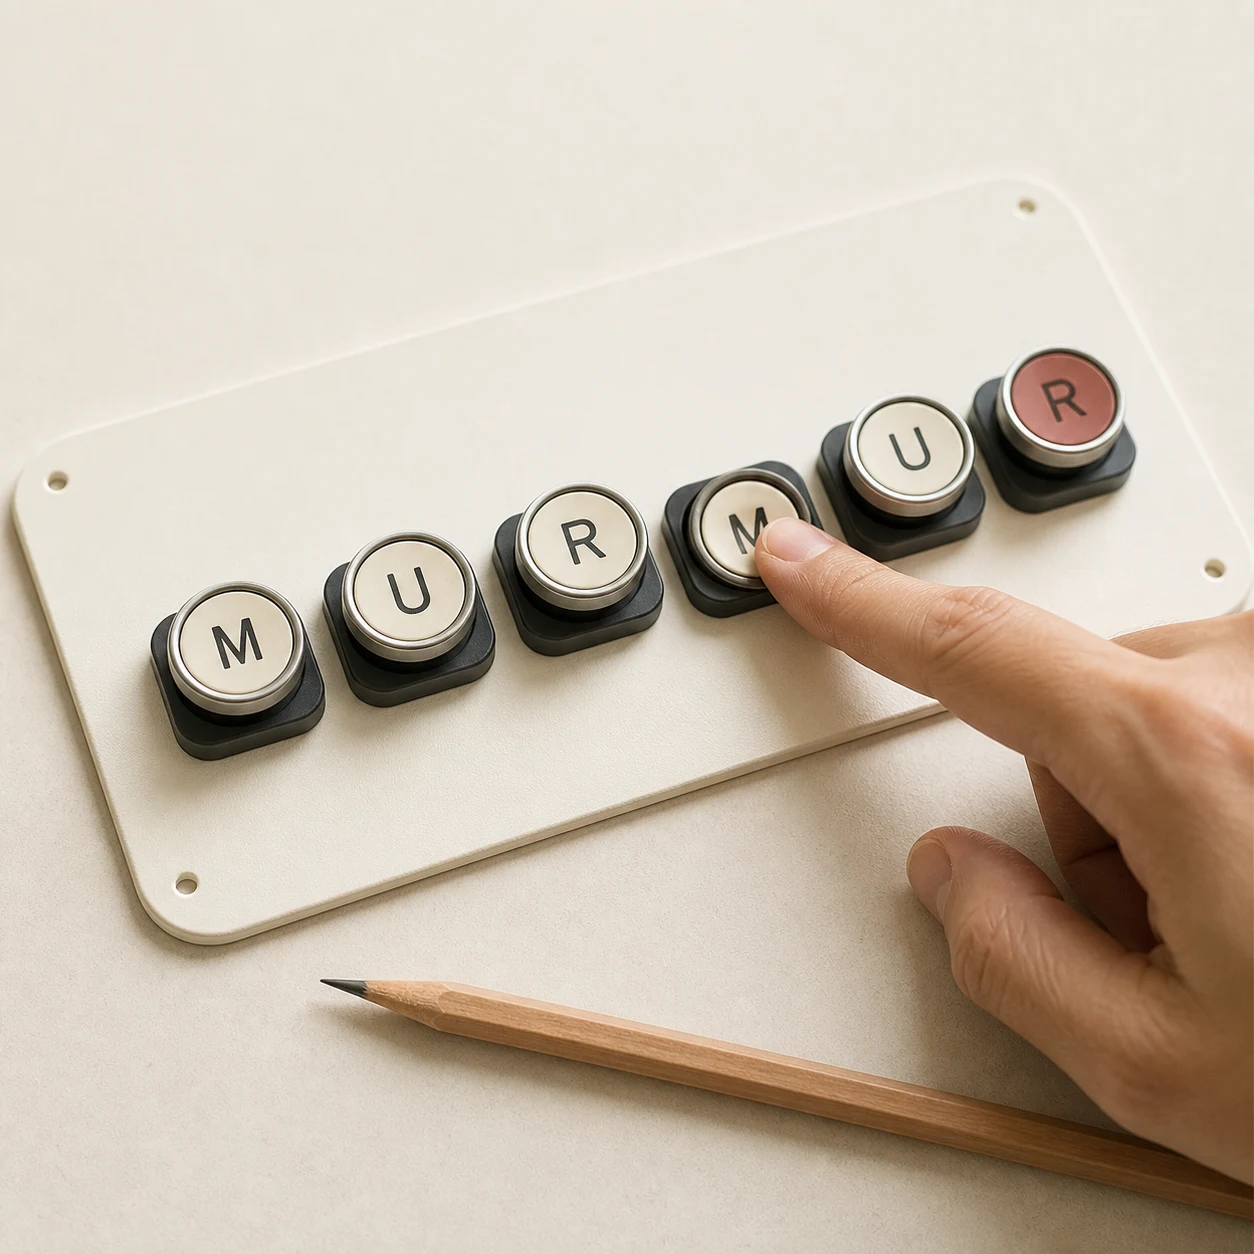
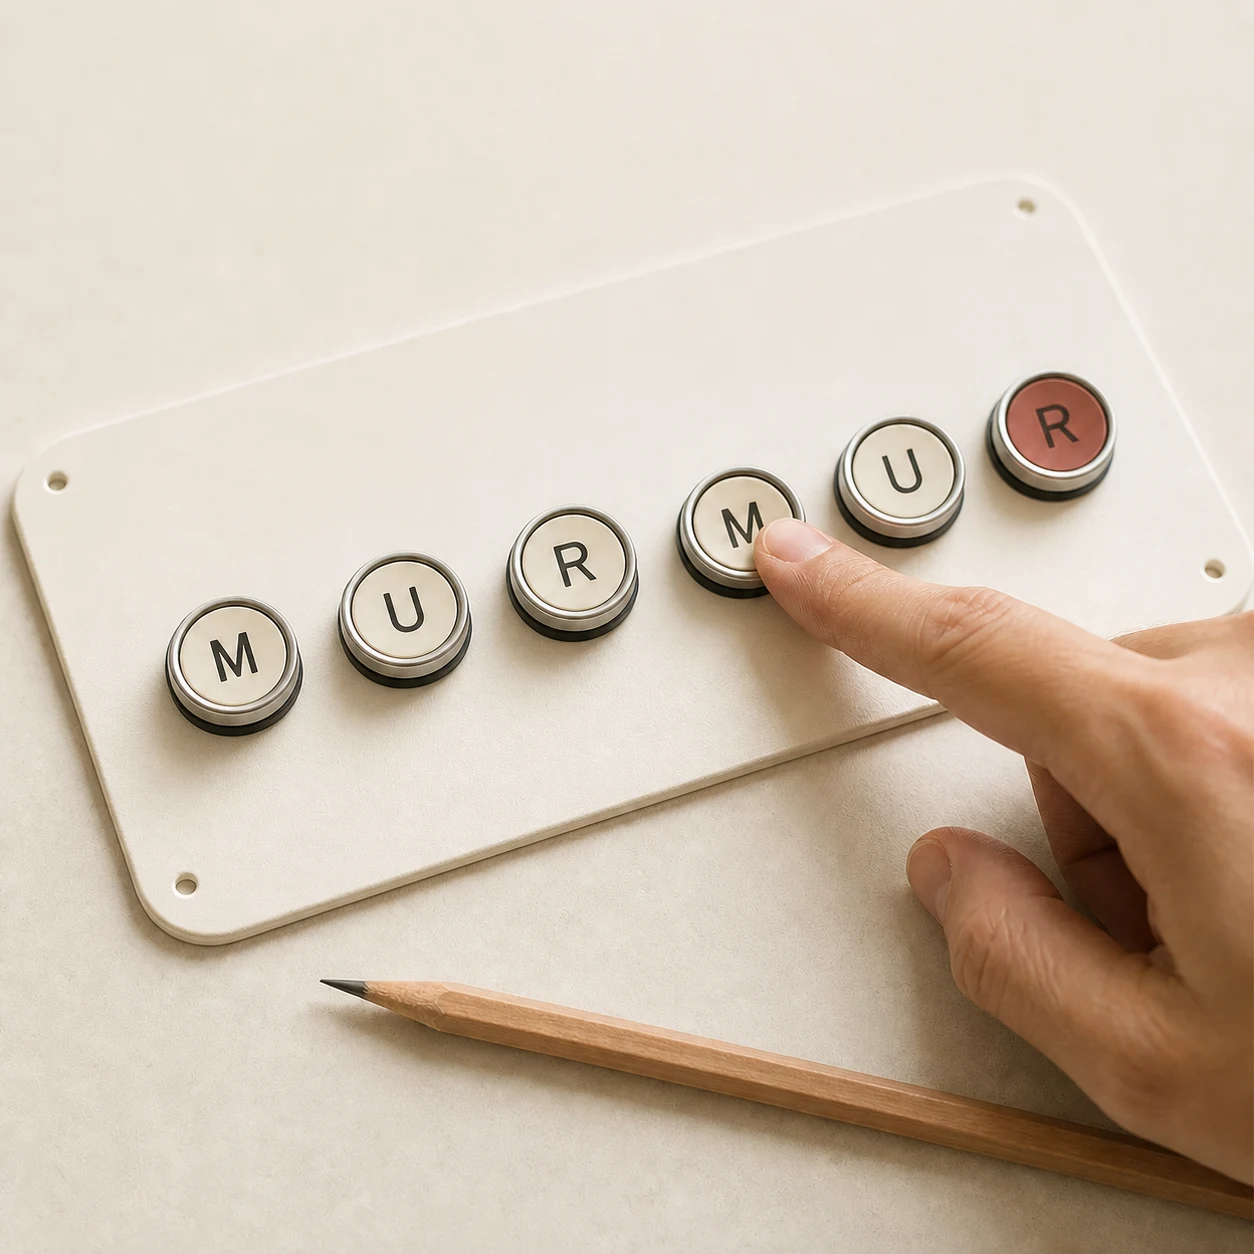
Resize PM-017 typewriter key magnets

Changed region(s): [[0.0933, 0.2799, 0.9019, 0.6531]]

diff --git a/src/koreanCopy.js b/src/koreanCopy.js
@@ -227,11 +227,11 @@ export const objectCopyKo = {
     category: '자석 문구',
     statement: ['단어를 붙이고,', '글자를 눌러보세요.'],
     story: [
-      '각 글자는 키보드에 연결되지 않은 독립형 자석입니다. 낮은 사각 베이스는 철제 표면에 그대로 붙어 있고, 둥근 키캡만 아래로 눌렸다가 작은 클릭감과 함께 제자리로 돌아옵니다.',
+      '각 글자는 키보드에 연결되지 않은 독립형 자석입니다. 원형 금속 링 아래로 거의 숨은 작은 베이스가 철제 표면에 붙고, 둥근 키캡만 아래로 눌렸다가 작은 클릭감과 함께 제자리로 돌아옵니다.',
       '일반 자석처럼 메모를 고정하거나 여러 글자를 나란히 배치해 짧은 단어를 만들 수 있습니다. 알파벳과 중복 글자, 숫자, 기호 세트가 같은 본체를 공유해 자유롭게 조합됩니다.',
     ],
     notes: [
-      ['독립형 키 유닛', '약 26 × 26 × 16mm 크기의 각 모듈 안에 키캡과 가이드, 클릭 부품, 자석 베이스, 후면 보호 패드가 모두 들어갑니다.'],
+      ['소형 키 유닛', '약 22 × 22 × 11mm 크기로 줄이고, 베이스가 원형 링보다 1~2mm만 보이도록 키캡과 가이드, 클릭 부품, 매립 자석, 후면 보호 링을 구성합니다.'],
       ['기계식 클릭', '가이드 플런저와 스테인리스 스냅 돔이 배터리나 전자음 없이 약 2mm의 눌림과 복귀감을 만듭니다.'],
       ['보드 보호 자석', '안쪽에 매립된 원형 자석이 고정력을 만들고 얇은 실리콘 링이 철제 표면의 긁힘과 자국을 줄입니다.'],
       ['다음 테스트', '작동 샘플로 누르는 힘, 키 흔들림, 스냅 돔 피로, 클릭 소리, 자력, 후면 패드 마모, 작은 부품 안전성을 확인해야 합니다.'],

diff --git a/src/catalog.js b/src/catalog.js
@@ -692,11 +692,11 @@ const typewriterKeyMagnets = {
   introKo: '철제 보드에 하나씩 붙여 단어를 만들고 메모를 고정하며, 누를 때마다 작은 기계식 클릭감을 주는 타자기 키 자석입니다.',
   statement: ['Arrange a word.', 'Press every letter.'],
   story: [
-    'Each letter is an independent magnet rather than part of a keyboard. The low square base stays fixed to a steel surface while the round keycap travels downward and returns with a compact tactile snap.',
+    'Each letter is an independent magnet rather than part of a keyboard. A compact backing, almost hidden beneath the circular metal ring, stays fixed to a steel surface while the round keycap travels downward and returns with a tactile snap.',
     'The key can hold a note like an ordinary magnet or sit beside other letters to build short words. Alphabet, duplicate-letter, number, and symbol packs share the same body and can be rearranged freely.',
   ],
   notes: [
-    ['Independent key unit', 'Each roughly 26 × 26 × 16 mm module contains its own keycap, guide, tactile element, magnetic base, and protective rear pad.'],
+    ['Compact key unit', 'Each roughly 22 × 22 × 11 mm module keeps the backing within 1–2 mm of the circular bezel while containing its own guide, tactile element, recessed magnet, and protective rear ring.'],
     ['Mechanical click', 'A guided plunger and stainless snap dome create about 2 mm of travel and return without a battery, switch, or electronic sound.'],
     ['Board-safe magnet', 'A recessed circular magnet provides the hold while a thin silicone ring keeps the metal surface from being scratched or marked.'],
     ['Next test', 'A working sample should tune press force, key wobble, snap-dome fatigue, click sound, magnetic hold, rear-pad wear, and small-part safety.'],
